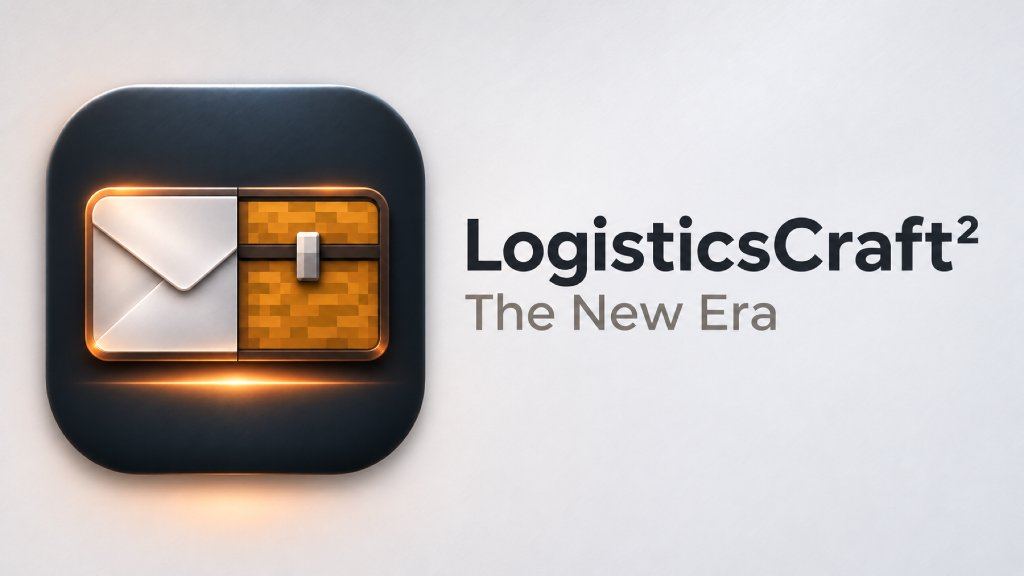
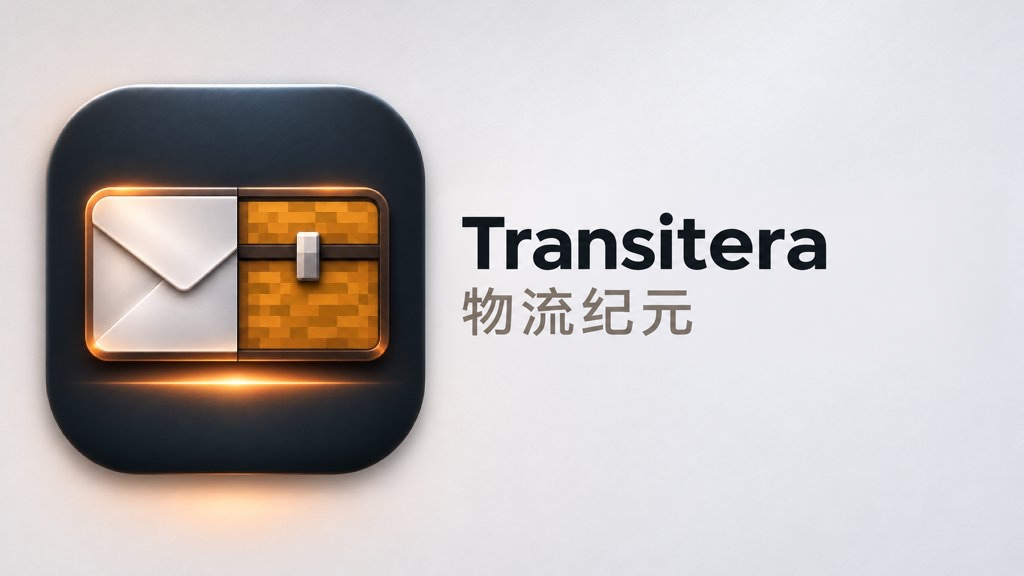
docs: update Transitera cover and Chinese name

Changed region(s): [[0.4375, 0.375, 0.9688, 0.5938]]

diff --git a/README.md b/README.md
@@ -1,10 +1,10 @@
-<h1><img src="assets/brand/icon.jpg" width="56" height="56" align="absmiddle" alt=""> 航运纪元 (Transitera)</h1>
+<h1><img src="assets/brand/icon.jpg" width="56" height="56" align="absmiddle" alt=""> 物流纪元 (Transitera)</h1>
 
 **简体中文** · [English](README.en.md)
 
-![航运纪元 (Transitera) 项目封面](assets/brand/cover.jpg)
+![物流纪元 (Transitera) 项目封面](assets/brand/cover.jpg)
 
-**航运纪元（`trera`）** 是 [机电纪元 (Machinera)](https://github.com/spectrum527/Machinera) 的独立物流附属模组，为主模组加入可跨未加载区块运行的电动智能运输船、货运无人机，以及通过通讯基站与操作终端实现的同维度远程调度系统。
+**物流纪元（`trera`）** 是 [机电纪元 (Machinera)](https://github.com/spectrum527/Machinera) 的独立物流附属模组，为主模组加入可跨未加载区块运行的电动智能运输船、货运无人机，以及通过通讯基站与操作终端实现的同维度远程调度系统。
 
 ## 下载与安装
 

diff --git a/README.en.md b/README.en.md
@@ -1,8 +1,8 @@
-<h1><img src="assets/brand/icon.jpg" width="56" height="56" align="absmiddle" alt=""> Transitera (<code>trera</code>)</h1>
+<h1><img src="assets/brand/icon.jpg" width="56" height="56" align="absmiddle" alt=""> Transitera (物流纪元)</h1>
 
 [简体中文](README.md) · **English**
 
-![Transitera project cover](assets/brand/cover.jpg)
+![Transitera (物流纪元) project cover](assets/brand/cover.jpg)
 
 Transitera (`trera`) is a logistics addon for [Machinera](https://github.com/spectrum527/Machinera). It adds autonomous electric cargo boats and transport drones that keep moving through unloaded chunks, along with a Communication Base Station and Operation Terminal for remote station control.
 

diff --git a/docs/DESIGN.md b/docs/DESIGN.md
@@ -51,7 +51,7 @@ Mod ID: `trera` · Root Package: `com.logisticscraft.lc2` · Version: `1.2.0`
 - *(The Operation Terminal Selection Screen is a client `Screen` driven by `TerminalSyncPayload` / `S2CTerminalSyncPacket` with no container `MenuType`.)*
 
 ### Creative Tab (1)
-- `trera:main` — `Transitera` / `航运纪元` (includes both empty `0 EU` and fully charged `10,000 EU` `trera:operation_terminal` entries)
+- `trera:main` — `Transitera` / `物流纪元` (includes both empty `0 EU` and fully charged `10,000 EU` `trera:operation_terminal` entries)
 
 ---
 
